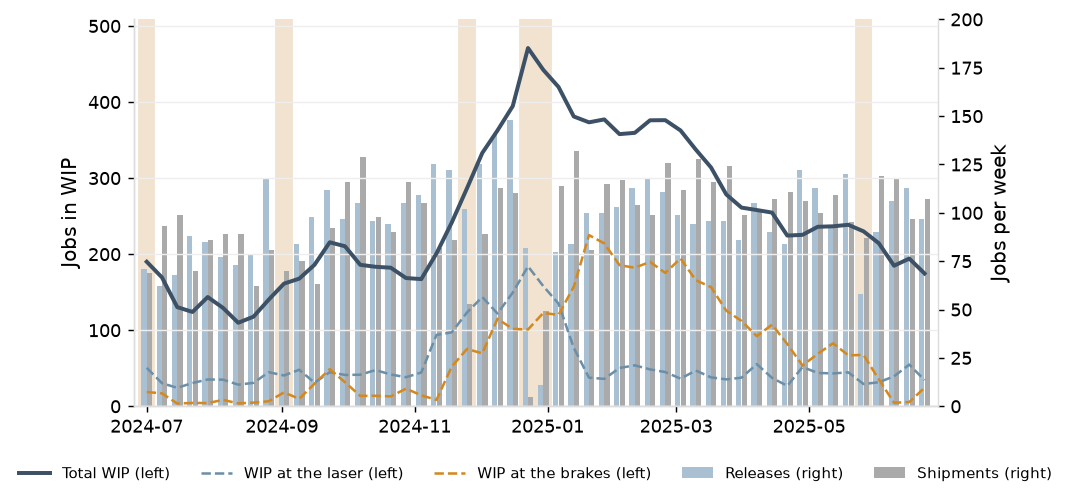
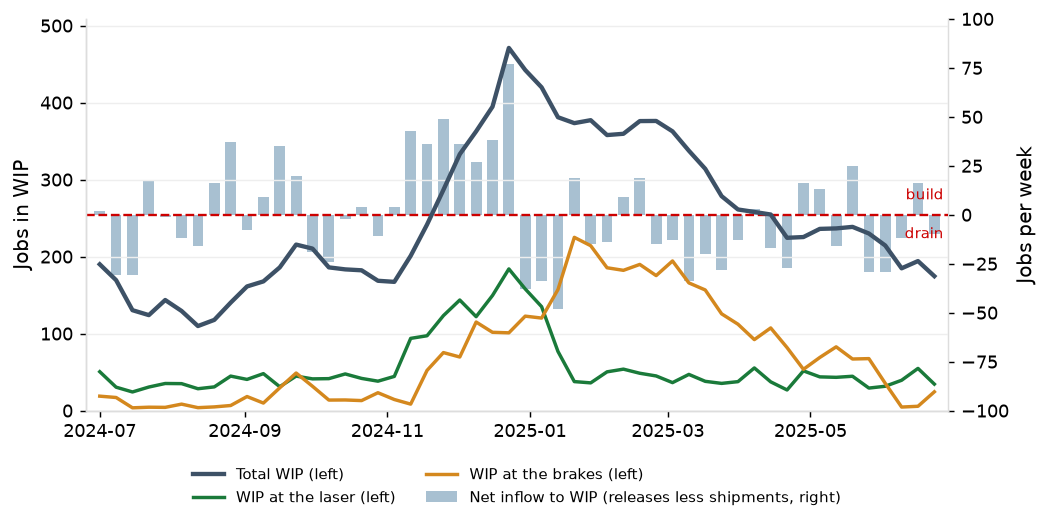
P1 report: weekly WIP chart with net inflow and solid lines

diff --git a/docs/reports/p1_lead_time.html b/docs/reports/p1_lead_time.html
@@ -71,7 +71,7 @@ nav.toc a:hover { color: var(--brand); border-left-color: var(--brand); }
 <div class='chart-title'>Jobs in WIP by Location</div><img alt="WIP by location" src="../figures/p1_wip_by_location.png">
 <p>WIP was within 10% of its expected value (jobs shipped per day times the days each job spent in WIP) in 9 of 12 quarters, so in those quarters the floor was in balance. The three quarters that miss are the 2024 year-end build (2024 Q4), when WIP ran ahead of shipments, and the quarters in which a build shipped (2023 Q1 and 2025 Q2), when shipments ran ahead of WIP. See Appendix Table <a href='#t6'>6</a> for additional detail.</p>
 <p>WIP peaked at 471 jobs at the end of 2024 against a Q3 2024 average of 153. In Q4 2024, the shop released 26% more brake standard hours than in Q3. Over six weeks in Q4 2024, this surge pushed the lasers to 92% of scheduled hours on average, vs. 69% in Q3. During the first three of those weeks, 94 to 123 jobs were waiting to be cut, vs. an average of 36 jobs in Q3. The work then queued at the brakes, which already run at 91% in a normal quarter, and the backlog was worked through in Q1 and into Q2 2025. See Appendix Table <a href='#t7'>7</a> for additional detail.</p>
-<div class='chart-title'>Weekly WIP, Releases and Shipments, Q3 &rsquo;24 to Q2 &rsquo;25</div><img alt="Weekly WIP, releases and shipments, July 2024 to June 2025" src="../figures/p1_year_end_build.png"><div class='caption'>Note: yellow shaded weeks have fewer than five working days</div>
+<div class='chart-title'>Weekly WIP, Releases and Shipments, Q3 &rsquo;24 to Q2 &rsquo;25</div><img alt="Weekly WIP and net inflow, July 2024 to June 2025" src="../figures/p1_year_end_build.png">
 <h2 id='rec'>Recommendation</h2>
 <p>Restate the fixed quote as a percentile of the measured lead-time distribution by routing class (P7): the 10-day repeat quote is met on 69% of jobs in an ordinary quarter. Plan the fourth-quarter peak with planned Saturday brake shifts from November through February and the setup program, sized on the shop model (P5); the 2024 build put 847 jobs late in the first quarter of 2025. Take ordinary-quarter lateness to P2, where material, vendor and robotic weld causes are attributed job by job.</p>
 <h2 id='method'>Method and data</h2>

diff --git a/analytics/p1_lead_time/build.py b/analytics/p1_lead_time/build.py
@@ -6,7 +6,7 @@ import numpy as np
 import pandas as pd
 
 from analytics.db import q
-from analytics.style.style import ACCENT, AMBER, BRAND_BLUE, DOCS, GREY, LIGHT_BLUE, RED, a3_shell, fig, pct, save, report_shell, table
+from analytics.style.style import ACCENT, AMBER, BRAND_BLUE, DOCS, GREEN, GREY, LIGHT_BLUE, RED, a3_shell, fig, pct, save, report_shell, table
 
 YEAR = 2025
 REST = "Q2 to Q4"
@@ -183,22 +183,21 @@ def fig_wip():
 
 
 def fig_weekly_year():
-    """Weekly WIP, releases and shipments from the third quarter of 2024 through the second quarter of 2025."""
+    """Weekly WIP and the net inflow to it, from the third quarter of 2024 through the second quarter of 2025."""
     d = wk[(wk["week_start"] >= "2024-07-01") & (wk["week_start"] <= "2025-06-29")].copy()
-    f, ax = fig(h=4.0)
+    net = d["releases"] - d["jobs_shipped"]
+    f, ax = fig(h=4.2)
     x = pd.to_datetime(d["week_start"])
-    ax.plot(x, d["wip_mean"], color=BRAND_BLUE, linewidth=2.2, label="Total WIP (left)")
-    ax.plot(x, d["wip_at_laser"], color=ACCENT, linewidth=1.4, linestyle="--", label="WIP at the laser (left)")
-    ax.plot(x, d["wip_at_brakes"], color=AMBER, linewidth=1.4, linestyle="--", label="WIP at the brakes (left)")
+    ax.plot(x, d["wip_mean"], color=BRAND_BLUE, linewidth=2.4, label="Total WIP (left)")
+    ax.plot(x, d["wip_at_laser"], color=GREEN, linewidth=1.9, label="WIP at the laser (left)")
+    ax.plot(x, d["wip_at_brakes"], color=AMBER, linewidth=1.9, label="WIP at the brakes (left)")
     ax.set_ylabel("Jobs in WIP")
     ax2 = ax.twinx()
-    for xs, wd in zip(x, d["weekdays"]):
-        if wd < 5:
-            ax2.axvspan(xs - pd.Timedelta(days=3.5), xs + pd.Timedelta(days=3.5), color="#F1E3CF", zorder=0)
-    ax2.bar(x - pd.Timedelta(days=1.3), d["releases"], width=2.4, color=LIGHT_BLUE, label="Releases (right)", zorder=2)
-    ax2.bar(x + pd.Timedelta(days=1.3), d["jobs_shipped"], width=2.4, color=GREY, label="Shipments (right)", zorder=2)
+    ax2.bar(x, net, width=4.6, color=LIGHT_BLUE, label="Net inflow to WIP (releases less shipments, right)", zorder=2)
+    ax2.axhline(0, color=RED, linewidth=1.3, linestyle="--", zorder=3)
+    lim = float(np.ceil(net.abs().max() / 25) * 25)
     ax2.set_ylabel("Jobs per week")
-    ax2.set_ylim(0, 200)
+    ax2.set_ylim(-lim, lim)
     ax2.grid(False)
     for s in ("top",):
         ax2.spines[s].set_visible(False)
@@ -208,9 +207,12 @@ def fig_weekly_year():
     h2, l2 = ax2.get_legend_handles_labels()
     ax.set_ylim(0, d["wip_mean"].max() * 1.08)
     ax.set_xlim(x.min() - pd.Timedelta(days=6), x.max() + pd.Timedelta(days=6))
-    ax.legend(h1 + h2, l1 + l2, frameon=False, fontsize=8.5, ncol=5, loc="upper center", bbox_to_anchor=(0.5, -0.12))
+    right = x.max() + pd.Timedelta(days=4)
+    ax2.text(right, lim * 0.06, "build", color=RED, fontsize=8.5, ha="right", va="bottom", zorder=4)
+    ax2.text(right, -lim * 0.06, "drain", color=RED, fontsize=8.5, ha="right", va="top", zorder=4)
+    ax.legend(h1 + h2, l1 + l2, frameon=False, fontsize=8.5, ncol=2, loc="upper center", bbox_to_anchor=(0.5, -0.11))
     f.tight_layout()
-    return save(f, "p1_year_end_build", "Weekly WIP, releases and shipments, July 2024 to June 2025")
+    return save(f, "p1_year_end_build", "Weekly WIP and net inflow, July 2024 to June 2025")
 
 
 def build_weeks():
@@ -444,8 +446,7 @@ def report():
              f"first three of those weeks, {n0(laser_three['wip_at_laser'].min())} to {n0(laser_three['wip_at_laser'].max())} jobs were waiting to be cut, "
              f"vs. an average of {n0(q3_24['wip_at_laser'].mean())} jobs in Q3. The work then queued at the brakes, which already run at {pct(brake_rest, 0)} in a "
              f"normal quarter, and the backlog was worked through in Q1 and into Q2 {YEAR}. {see('7')}</p>")
-    b.append(chart("Weekly WIP, Releases and Shipments, Q3 &rsquo;24 to Q2 &rsquo;25", fig_weekly_year(),
-                   "Note: yellow shaded weeks have fewer than five working days"))
+    b.append(chart("Weekly WIP, Releases and Shipments, Q3 &rsquo;24 to Q2 &rsquo;25", fig_weekly_year()))
 
     b.append("<h2 id='rec'>Recommendation</h2>")
     b.append(f"<p>Restate the fixed quote as a percentile of the measured lead-time distribution by routing class (P7): the 10-day repeat quote is met on "
